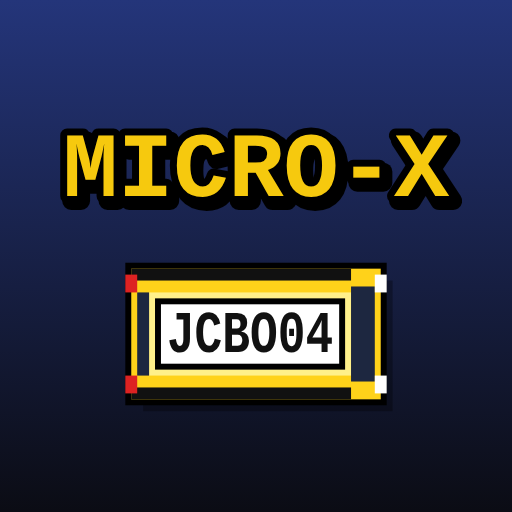
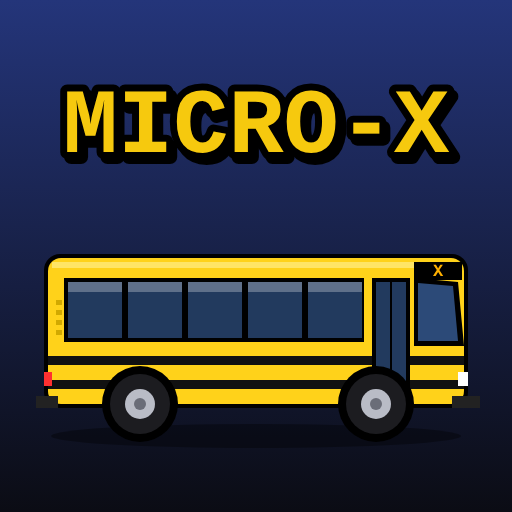
Icono con la micro vista de lado y letrero de recorrido X
Claude-Session: https://claude.ai/code/session_01RH5MfsMRBkBpGjXNB4ATJR

diff --git a/sw.js b/sw.js
@@ -1,5 +1,5 @@
 /* Service worker de Micro-X: deja el juego disponible sin conexión. */
-const CACHE = 'microx-v2';   // súbelo (v2, v3…) cuando publiques una versión nueva
+const CACHE = 'microx-v3';   // súbelo (v2, v3…) cuando publiques una versión nueva
 const FILES = ['./', './index.html', './manifest.webmanifest',
   './icons/icon-192.png', './icons/icon-512.png', './icons/icon-maskable-512.png', './icons/apple-touch-icon.png'];
 
